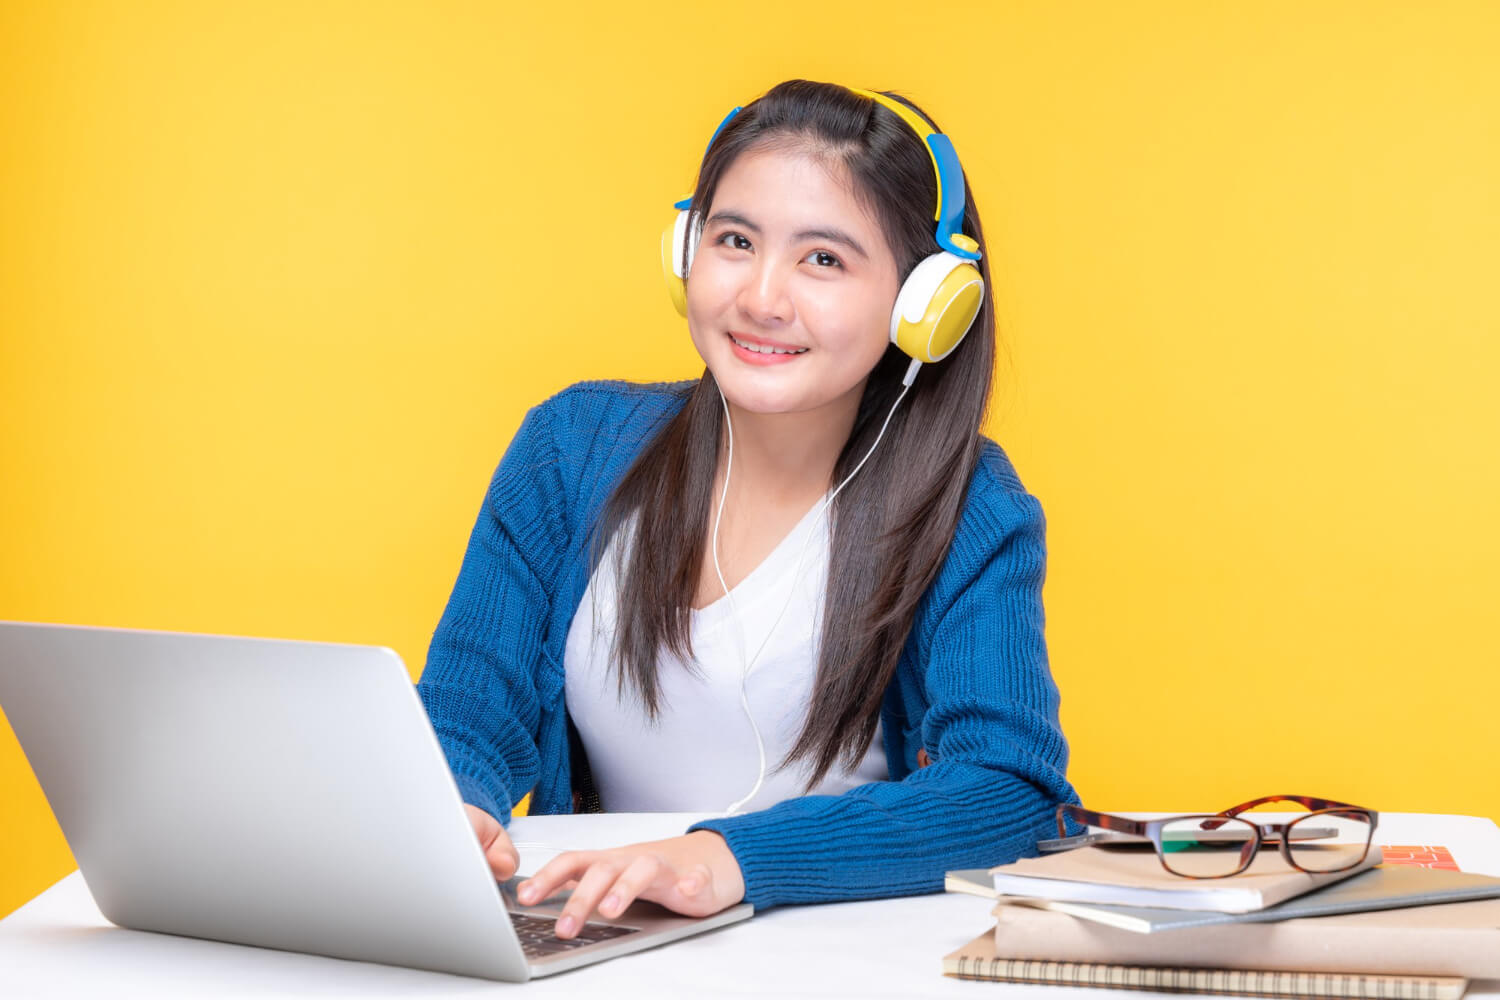
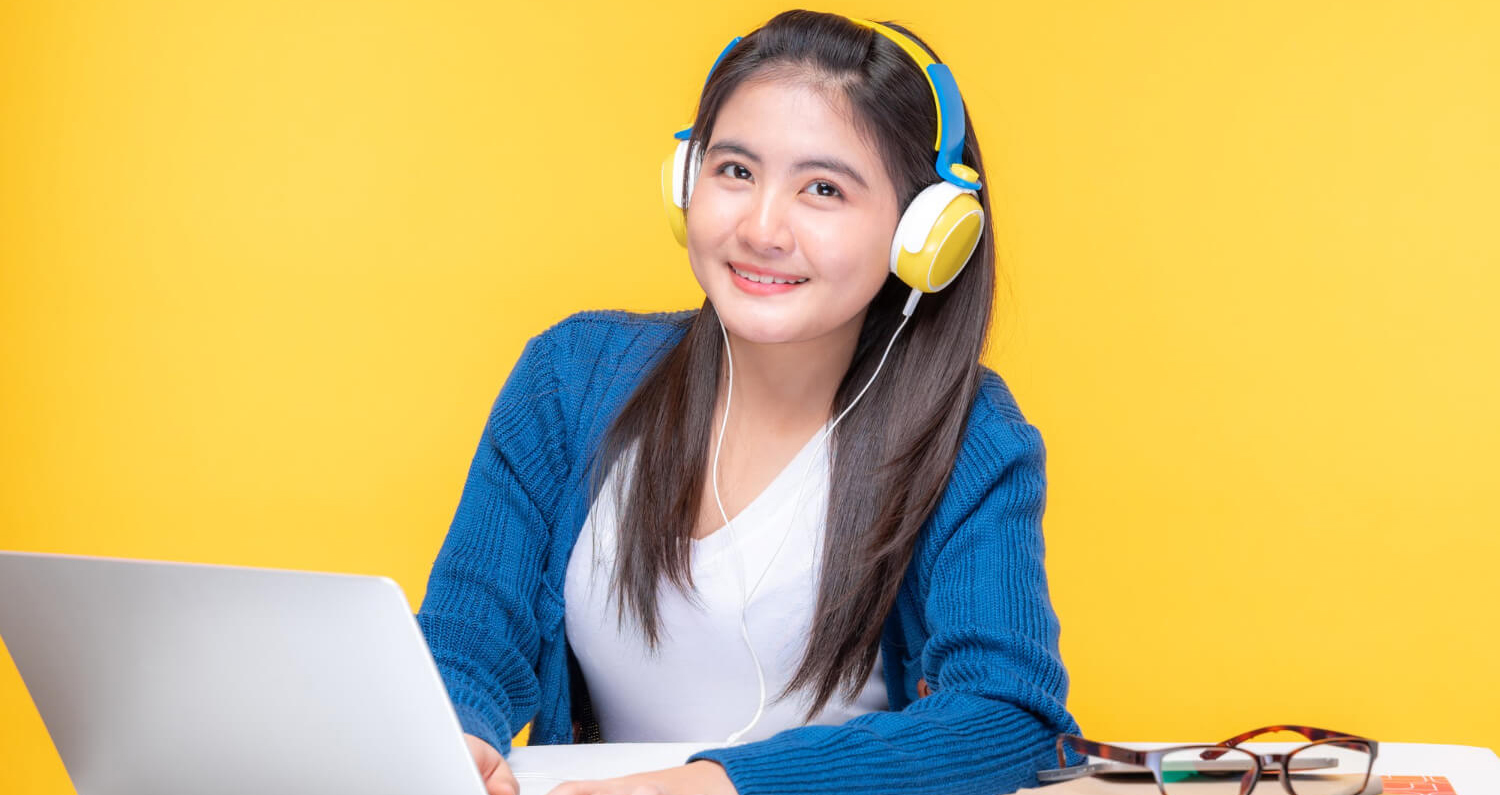
carousel

diff --git a/index.html b/index.html
@@ -52,7 +52,65 @@
             </nav>
         </section>
         <!-- navbar end -->
+
+        <!-- slider section start -->
+        <section class="container">
+            <div id="carouselExampleCaptions" class="carousel slide carousel-fade" data-bs-ride="false">
+                <!-- <div class="carousel-indicators">
+                    <button type="button" data-bs-target="#carouselExampleCaptions" data-bs-slide-to="0" class="active"
+                        aria-current="true" aria-label="Slide 1"></button>
+                    <button type="button" data-bs-target="#carouselExampleCaptions" data-bs-slide-to="1"
+                        aria-label="Slide 2"></button>
+                    <button type="button" data-bs-target="#carouselExampleCaptions" data-bs-slide-to="2"
+                        aria-label="Slide 3"></button>
+                </div> -->
+                <div class="carousel-inner">
+                    <div class="carousel-item active">
+                        <img src="images/cover/cover-1.png" class="d-block w-100" alt="...">
+                        <div class="carousel-caption">
+                            <h1 class="fw-bold">Get Started Digital Learning</h1>
+                            <p>It is a long established fact that a reader will be distracted by the readable content of
+                                a page when looking at its layout.</p>
+                            <button class="btn btn-lg btn-primary fw-normal" type="button">Get
+                                Started</button>
+                        </div>
+                    </div>
+                    <div class="carousel-item">
+                        <img src="images/cover/cover-2.jpg" class="d-block w-100" alt="...">
+                        <div class="carousel-caption">
+                            <h1 class="fw-bold">Get Started Digital Learning</h1>
+                            <p>It is a long established fact that a reader will be distracted by the readable content of
+                                a page when looking at its layout.</p>
+                            <button class="btn btn-lg btn-primary fw-normal" type="button">Get
+                                Started</button>
+                        </div>
+                    </div>
+                    <div class="carousel-item">
+                        <img src="images/cover/cover-3.jpg" class="d-block w-100" alt="...">
+                        <div class="carousel-caption">
+                            <h1 class="fw-bold">Get Started Digital Learning</h1>
+                            <p>It is a long established fact that a reader will be distracted by the readable content of
+                                a page when looking at its layout.</p>
+                            <button class="btn btn-lg btn-primary fw-normal" type="button">Get
+                                Started</button>
+                        </div>
+                    </div>
+                </div>
+                <button class="carousel-control-prev" type="button" data-bs-target="#carouselExampleCaptions"
+                    data-bs-slide="prev">
+                    <span class="carousel-control-prev-icon" aria-hidden="true"></span>
+                    <span class="visually-hidden">Previous</span>
+                </button>
+                <button class="carousel-control-next" type="button" data-bs-target="#carouselExampleCaptions"
+                    data-bs-slide="next">
+                    <span class="carousel-control-next-icon" aria-hidden="true"></span>
+                    <span class="visually-hidden">Next</span>
+                </button>
+            </div>
+        </section>
+        <!-- slider section end -->
     </header>
+
     <main>
 
     </main>
